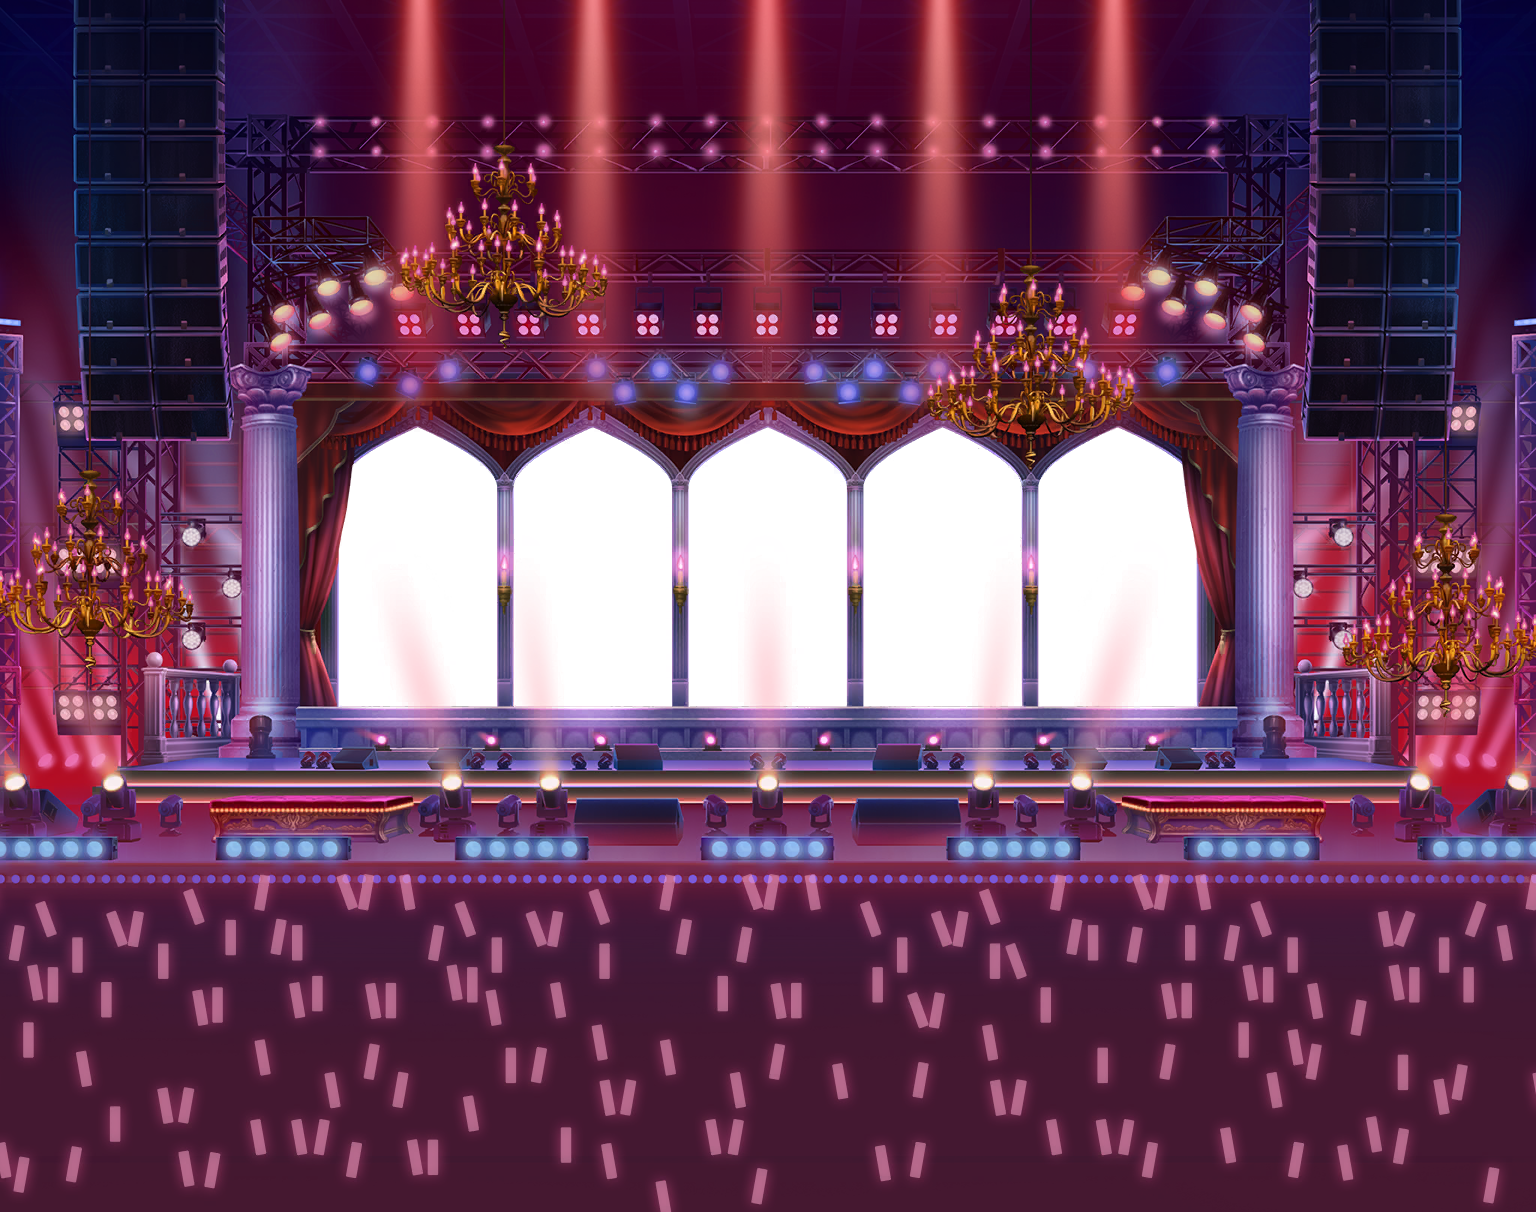
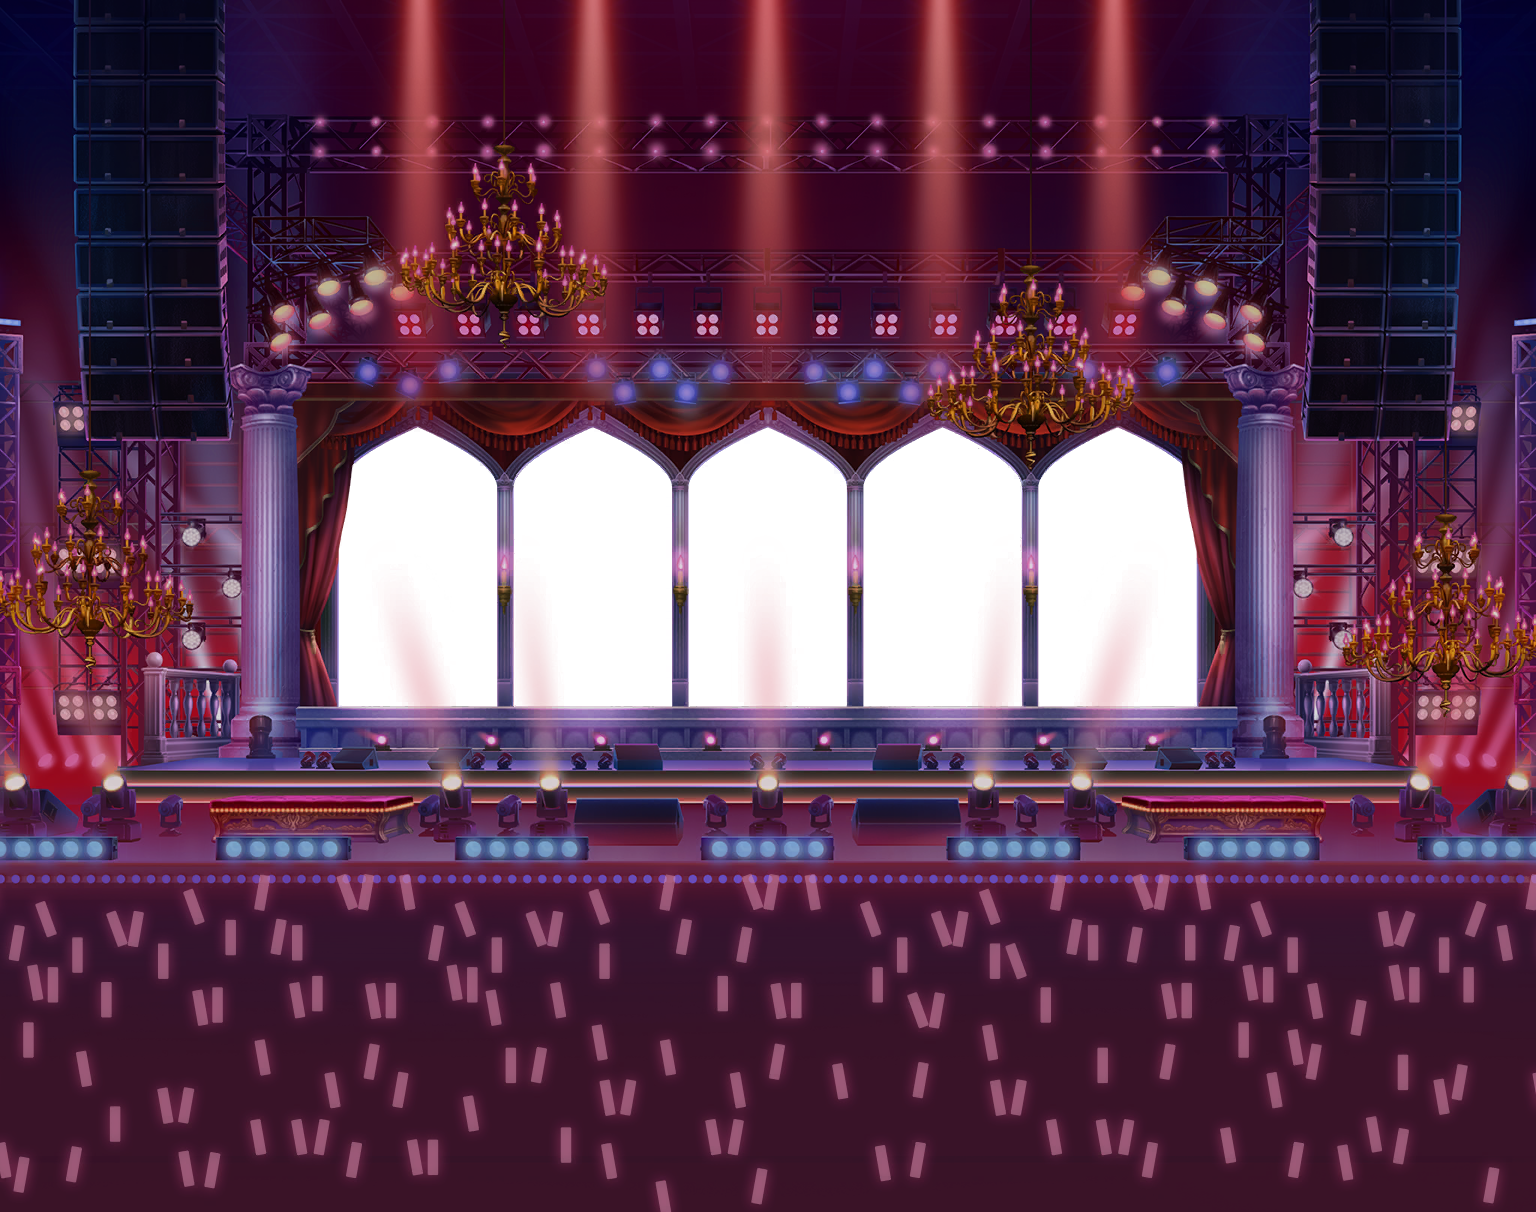
fix(stage): dim backgrounds and align the guideline default
The published backgrounds carry the native 70% brightness so the lane
composites over the same stage the game shows, and the guideline opacity
default follows MasterOptionDefault preset 1 (25) in play, watch and the
tutorial.

diff --git a/tutorial/src/engine/tutorialData/components/stage.ts b/tutorial/src/engine/tutorialData/components/stage.ts
@@ -51,10 +51,10 @@ export const stage = {
   },
 
   drawGuidelines() {
-    // Tutorial uses the fresh-user six-lane/.4 opacity preset. Match
+    // Tutorial uses the fresh-user six-lane/.25 opacity preset. Match
     // Play's ground geometry and source textures, without reading input options.
     if (!skin.sprites.guideline.exists) return;
-    const opacity = 0.4;
+    const opacity = 0.25;
     for (let index = 1; index < 24; index++) {
       const main = index % 4 === 0;
       const space = !main && index % 2 === 0;

diff --git a/shared/src/engine/configuration/options.ts b/shared/src/engine/configuration/options.ts
@@ -140,7 +140,8 @@ export const optionsDefinition = {
     title: officialOptionText.ui_option_display2_lane_guideline_opacity,
     scope: "Our Notes",
     type: "slider",
-    def: 0.4,
+    // MasterOptionDefault preset 1 stores GuidelineOpacity=25.
+    def: 0.25,
     min: 0,
     max: 1,
     step: 0.05,
